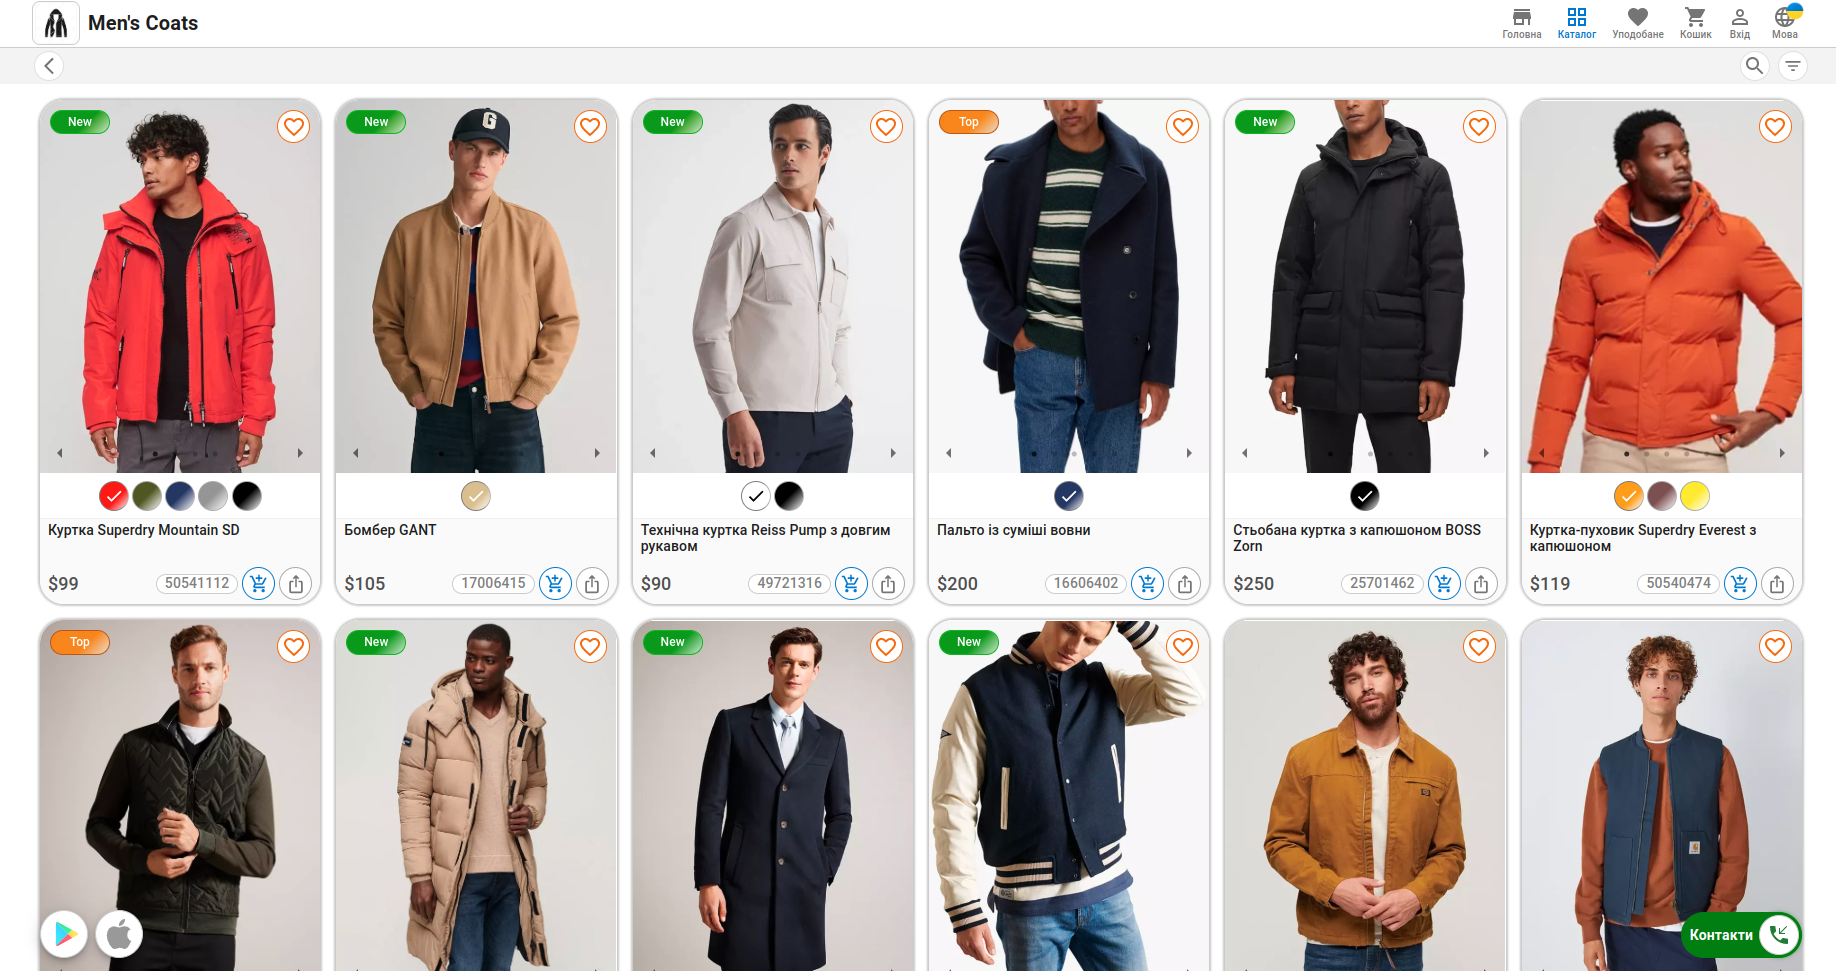
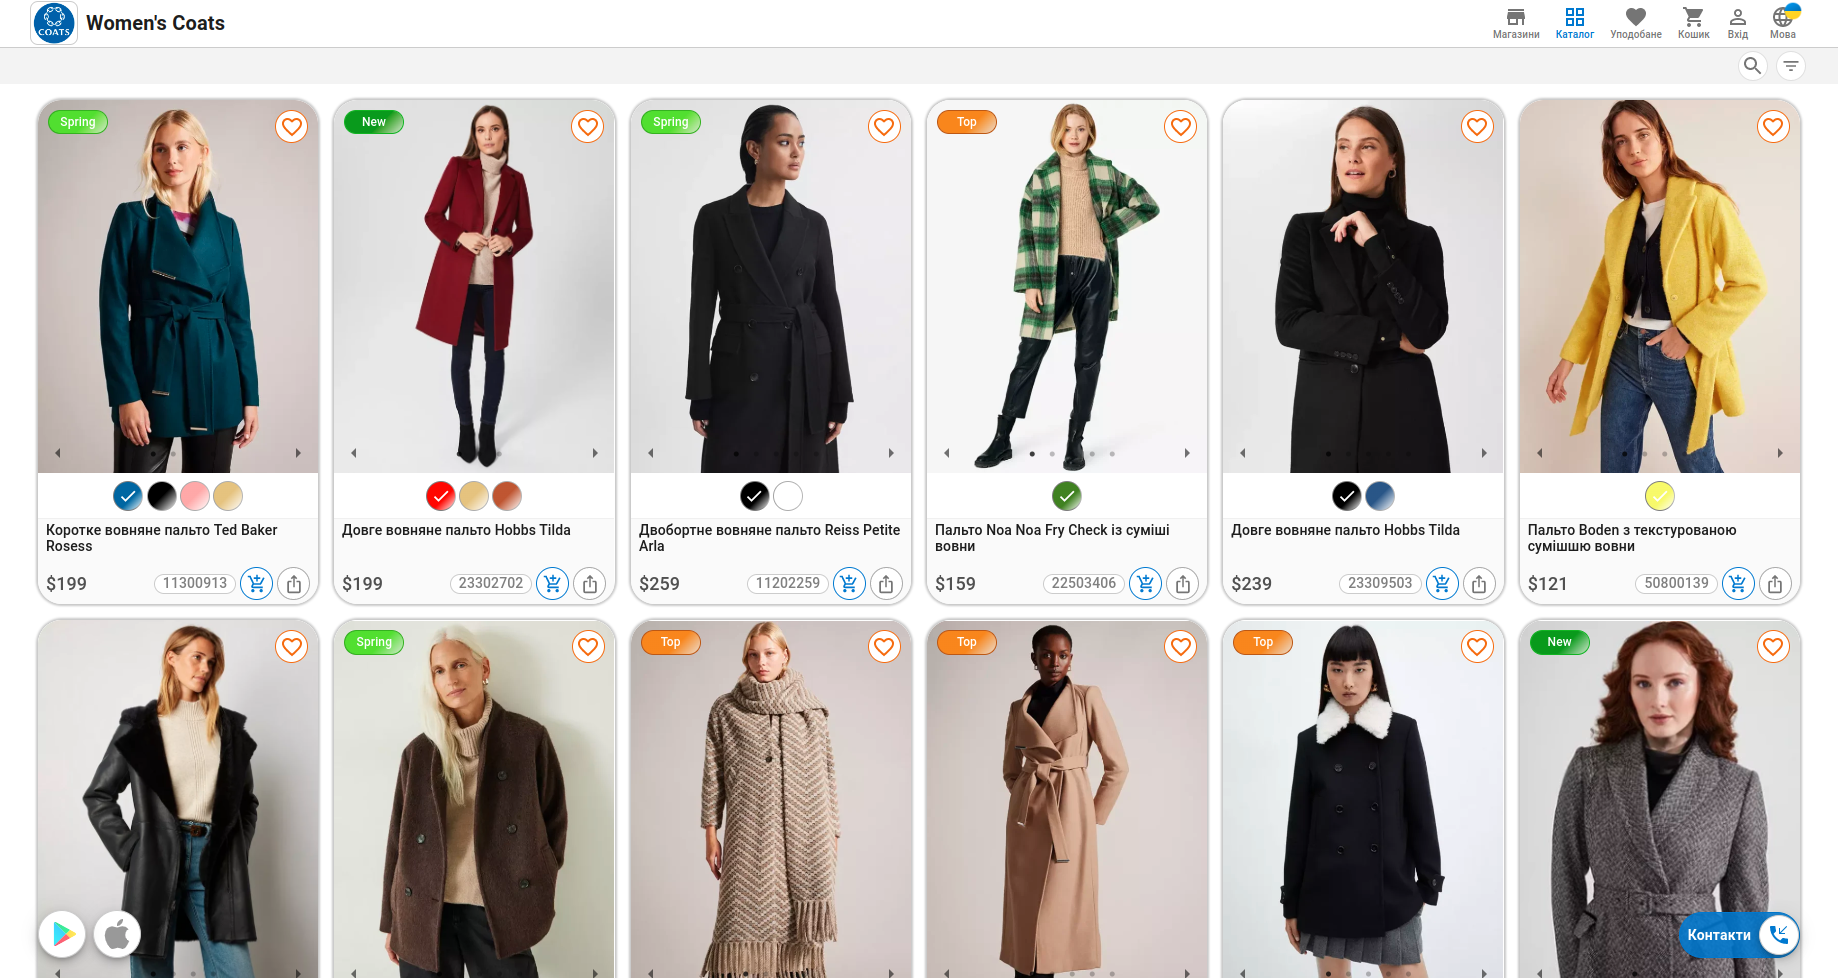
wip

diff --git a/src/pages/Home/HomePage.tsx b/src/pages/Home/HomePage.tsx
@@ -142,48 +142,6 @@ const HomePage = () => {
 
     return (
         <>
-            <Grid xs={12} container sx={{ display: 'flex', gap: 1 }}>
-                <Grid
-                    xs={12}
-                    sx={{
-                        // width: '1000px',
-                        // height: '540px',
-                        border: '10px solid #000',
-                        borderRadius: 8,
-                        background: `linear-gradient(89.7deg, rgb(0, 0, 0) 50.7%, rgb(23, 65, 65) 88.8%);`,
-
-                        overflow: 'hidden',
-                    }}
-                >
-                    <Box sx={{ width: '100%', height: '100%' }}>
-                        <img style={{ width: '100%', height: '100%' }} src={require('./img/1.png')} alt="" />
-                    </Box>
-                </Grid>
-                {/* <Box
-                    sx={{
-                        width: '230px',
-                        height: '470px',
-                        border: '5px solid #000',
-                        borderRadius: 8,
-                        background: `linear-gradient(89.7deg, rgb(0, 0, 0) 50.7%, rgb(23, 65, 65) 88.8%);`,
-                        display: 'flex',
-                        justifyContent: 'center',
-                        alignItems: 'center',
-                        overflow: 'hidden',
-                    }}
-                >
-                    <Box
-                        sx={{
-                            width: '220px',
-                            height: '460px',
-                            background: '#fff',
-                            backgroundImage: `url(${require('./img/11.png')})`,
-                            backgroundSize: 'cover',
-                            backgroundRepeat: 'no-repeat',
-                        }}
-                    ></Box>
-                </Box> */}
-            </Grid>
             <Grid xs={12} container>
                 <Form
                     values={{ ...plan }}
@@ -195,6 +153,45 @@ const HomePage = () => {
                 {openModal && <SuccessModel setOpenModal={setOpenModal} />}
                 {<CallBackButton from="landing" />}
                 <Hero setIsOpen={setIsOpen} isOpen={isOpen} />
+                <Grid
+                    p={1}
+                    xs={12}
+                    container
+                    sx={{ display: 'flex', gap: 1, flexWrap: 'nowrap', alignItems: 'flex-end' }}
+                >
+                    <Grid
+                        xs={10}
+                        sx={{
+                            border: '1vw solid #000',
+                            borderRadius: sm ? '12px' : '24px',
+                            background: `#fff`,
+                            overflow: 'hidden',
+                            height: 'fit-content',
+                            boxShadow: '0 0 5px 2px #d3d3d3',
+                        }}
+                    >
+                        <Box sx={{ width: '100%' }}>
+                            <img style={{ width: '100%' }} src={require('./img/1.png')} alt="" />
+                        </Box>
+                    </Grid>
+                    <Grid
+                        xs={2}
+                        sx={{
+                            boxShadow: '0 0 5px 2px #d3d3d3',
+                            border: '0.5vw solid #000',
+                            borderRadius: sm ? '8px' : '16px',
+                            background: `#000`,
+                            overflow: 'hidden',
+                            height: 'fit-content',
+                        }}
+                        ml={-2}
+                        mb={1}
+                    >
+                        <Box sx={{ width: '100%' }}>
+                            <img style={{ width: '100%' }} src={require('./img/11.png')} alt="" />
+                        </Box>
+                    </Grid>
+                </Grid>
                 <Grid xs={12} container sx={{ display: 'flex', justifyContent: 'center', alignItems: 'center' }}>
                     <Box
                         px={2}
@@ -210,6 +207,7 @@ const HomePage = () => {
                             <Typography sx={{ fontSize: 24, fontWeight: 500 }}>{string?.main_advantages}</Typography>
                         </Box>
                     </Box>
+
                     <Grid
                         xs={12}
                         container
@@ -312,6 +310,7 @@ const HomePage = () => {
                         ))}
                     </Grid>
                 </Grid>
+
                 <Grid
                     xs={12}
                     sx={{
@@ -483,7 +482,7 @@ const HomePage = () => {
                                                     borderRadius: '50%',
                                                 }}
                                             >
-                                                {index !== 2 && (
+                                                {!index && (
                                                     <img
                                                         src={require('./img/free.webp')}
                                                         style={{ width: 130, height: 115 }}

diff --git a/src/pages/Home/Hero.tsx b/src/pages/Home/Hero.tsx
@@ -23,7 +23,6 @@ const Hero = ({ setIsOpen, isOpen }) => {
                     position: 'relative',
                     flexDirection: 'column',
                     background: `linear-gradient(89.7deg, rgb(0, 0, 0) 50.7%, rgb(23, 65, 65) 88.8%);`,
-
                     width: '100%',
                 }}
             >
